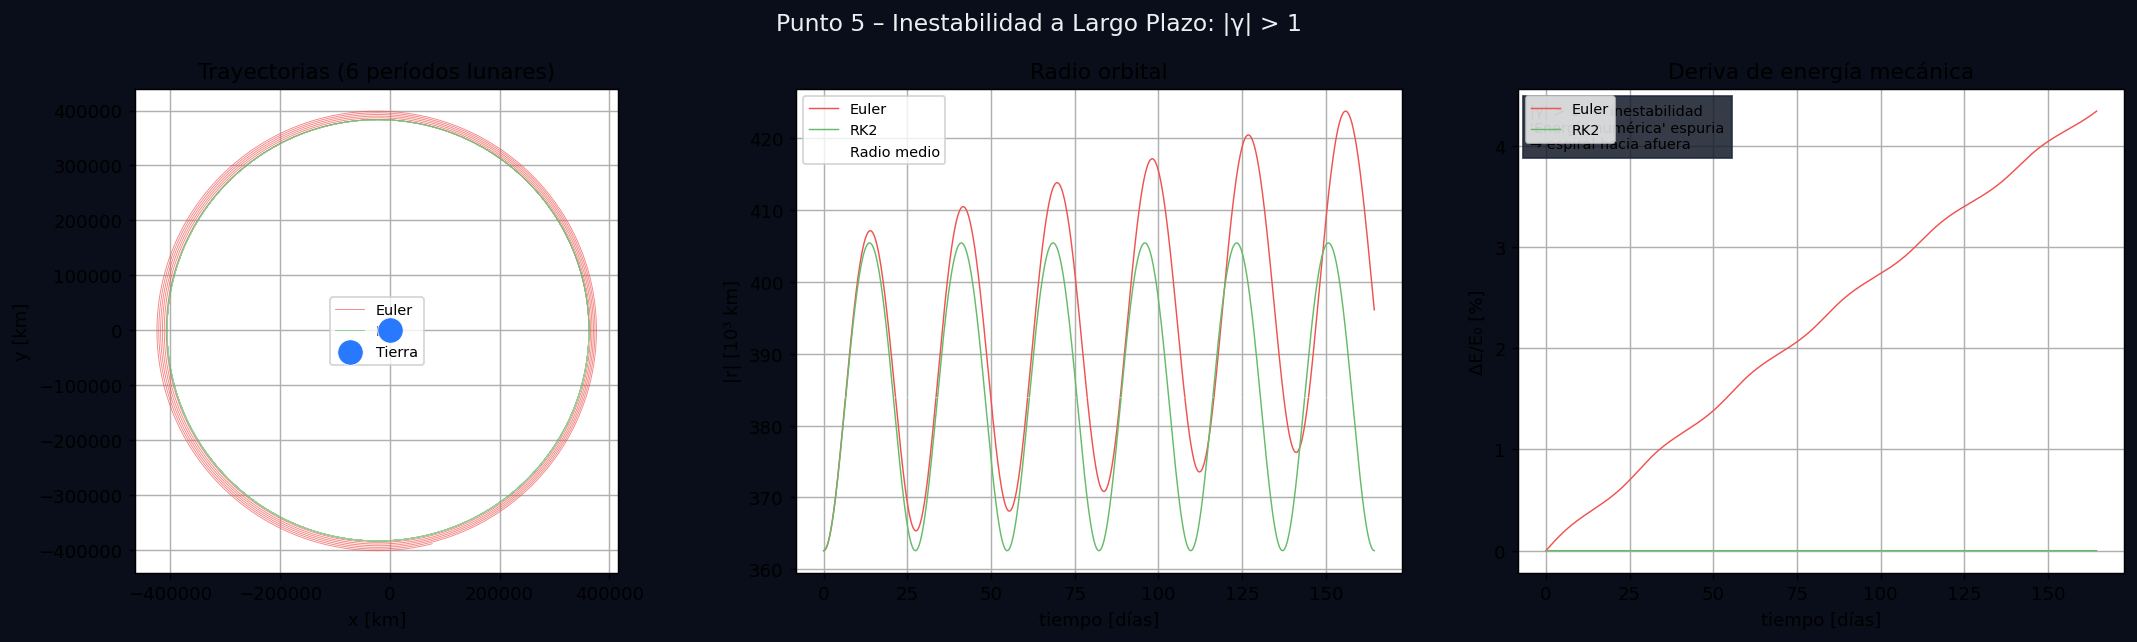
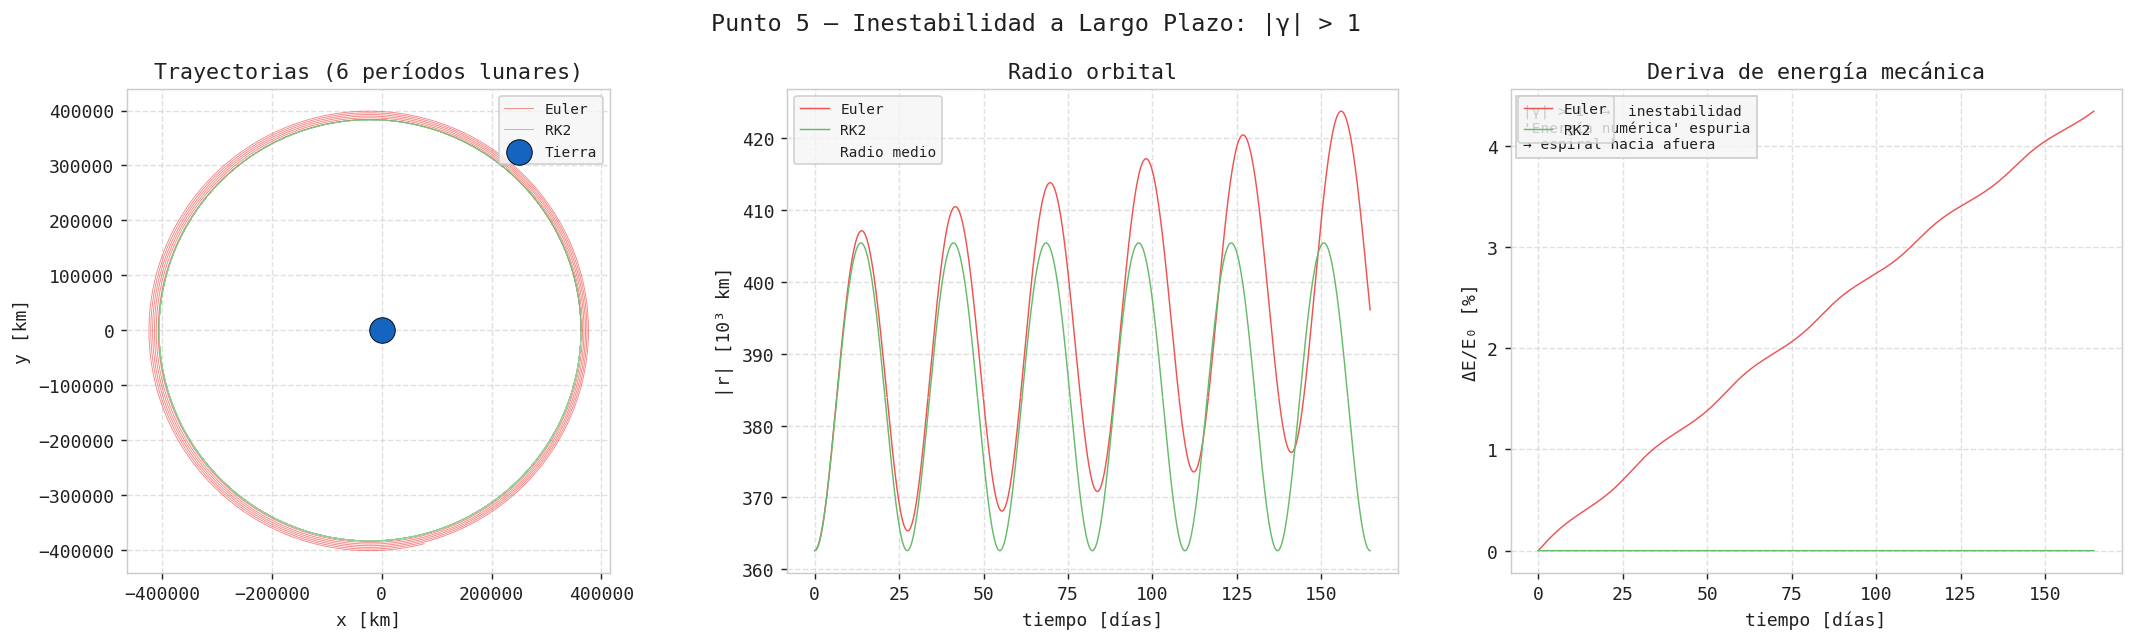
Graficos blancos arreglados

diff --git a/graph/graph.py b/graph/graph.py
@@ -1,19 +1,31 @@
 import matplotlib.pyplot as plt
 import numpy as np
 
-BG = "#0a0e1a"
-# GC = "#1e2a40"
-EC = "#2979ff"
-MC = "#b0bec5"
-TC = "#eceff1"
+BG  = "#ffffff"
+GC  = "#cccccc"
+EC  = "#1565c0"
+MC  = "#546e7a"
+TC  = "#212121"
 
+def configurar_estilo():
+    plt.rcParams.update({
+        "figure.facecolor": BG, "axes.facecolor":   BG,
+        "axes.edgecolor":   GC, "axes.labelcolor":  TC,
+        "xtick.color":      TC, "ytick.color":       TC,
+        "text.color":       TC, "grid.color":        GC,
+        "grid.linestyle":  "--", "grid.alpha":       0.6,
+        "legend.facecolor": "#f5f5f5", "legend.edgecolor": GC,
+        "font.family":      "monospace",
+    })
+ 
 def crear_figura(n_cols, n_rows=1, titulo="", ancho=16, alto=5):
     fig, axes = plt.subplots(n_rows, n_cols, figsize=(ancho, alto))
     if titulo:
         fig.suptitle(titulo, fontsize=13, color=TC)
     return fig, np.atleast_1d(axes).flatten()
  
-def configurar_ejes(ax, titulo="", xlabel="", ylabel="", fontsize_legend=8):
+def configurar_ejes(ax, titulo="", xlabel="", ylabel="", fontsize_legend=8,
+                    loc_leyenda="best"):
     if titulo:
         ax.set_title(titulo)
     if xlabel:
@@ -23,9 +35,11 @@ def configurar_ejes(ax, titulo="", xlabel="", ylabel="", fontsize_legend=8):
     ax.grid(True)
     handles, labels = ax.get_legend_handles_labels()
     if labels:
-        ax.legend(fontsize=fontsize_legend)
+        ax.legend(fontsize=fontsize_legend, loc=loc_leyenda)
  
-def graficar_trayectoria(ax, trayectorias, titulo="", mostrar_tierra=True, punto_luna=None, puntos_extra=None):
+def graficar_trayectoria(ax, trayectorias, titulo="", mostrar_tierra=True,
+                          punto_luna=None, puntos_extra=None,
+                          loc_leyenda="best"):
     for t in trayectorias:
         ax.plot(
             t["r"][:, 0], t["r"][:, 1],
@@ -39,11 +53,11 @@ def graficar_trayectoria(ax, trayectorias, titulo="", mostrar_tierra=True, punto
  
     if mostrar_tierra:
         ax.scatter([0], [0], s=200, color=EC, zorder=6, label="Tierra",
-                   edgecolors="white", linewidths=0.5)
+                   edgecolors="black", linewidths=0.5)
  
     if punto_luna is not None:
-        ax.scatter(*punto_luna, s=120, color=MC, zorder=6, label="Luna (t₀)",
-                   edgecolors="white", linewidths=0.5)
+        ax.scatter(*punto_luna, s=120, color=MC, zorder=6, label="Luna (t\u2080)",
+                   edgecolors="black", linewidths=0.5)
  
     if puntos_extra:
         for p in puntos_extra:
@@ -57,9 +71,11 @@ def graficar_trayectoria(ax, trayectorias, titulo="", mostrar_tierra=True, punto
             )
  
     ax.set_aspect("equal")
-    configurar_ejes(ax, titulo=titulo, xlabel="x [km]", ylabel="y [km]")
-
-def graficar_serie_temporal(ax, series, titulo="", xlabel="tiempo [días]", ylabel="", escala_log=False):
+    configurar_ejes(ax, titulo=titulo, xlabel="x [km]", ylabel="y [km]",
+                    loc_leyenda=loc_leyenda)
+ 
+def graficar_serie_temporal(ax, series, titulo="", xlabel="tiempo [días]",
+                             ylabel="", escala_log=False):
     plot_fn = ax.semilogy if escala_log else ax.plot
  
     for s in series:
@@ -83,16 +99,18 @@ def graficar_lineas_referencia(ax, lineas):
             alpha=lin.get("alpha", 1.0),
             label=lin.get("label", ""),
         )
-
+ 
 def caja_texto(ax, texto):
+    """Agrega un cuadro de anotación informativa en la esquina superior izquierda."""
     ax.text(
         0.02, 0.97, texto,
         transform=ax.transAxes, va="top", fontsize=8,
-        bbox=dict(facecolor="#111827", edgecolor=TC, alpha=0.85),
+        bbox=dict(facecolor="#f5f5f5", edgecolor=GC, alpha=0.9),
     )
  
 def guardar_figura(fig, nombre_archivo, out_dir):
+    """Guarda la figura en el directorio de salida, la cierra y confirma por consola."""
     ruta = out_dir / nombre_archivo
     fig.savefig(ruta, dpi=130, bbox_inches="tight", facecolor=BG)
     plt.close(fig)
-    print(f"Grafico guardado: {ruta}")
+    print(f"  Guardado: {ruta}")

diff --git a/calculos/calculos.py b/calculos/calculos.py
@@ -25,6 +25,7 @@ EUC = "#ef5350"
 RKC = "#66bb6a"
 NYC = "#29b6f6"
 TC = "#eceff1"
+AM = "#ffeb3b"
 
 def calculo_orbita_lunar():
     N = 40_000
@@ -49,11 +50,12 @@ def calculo_orbita_lunar():
         trayectorias=[{"r": rl, "color": MC, "lw": 1.2, "label": "Órbita Lunar"}],
         titulo="Trayectoria (1 período)",
         puntos_extra=[
-            {"xy": (rl[pi_, 0], rl[pi_, 1]), "color": "#ff1744", "s": 60,
+            {"xy": (rl[pi_, 0], rl[pi_, 1]), "color": EUC, "s": 60,
              "label": f"Perigeo {dl.min():.0f} km"},
-            {"xy": (rl[ai_, 0], rl[ai_, 1]), "color": "#69f0ae", "s": 60,
+            {"xy": (rl[ai_, 0], rl[ai_, 1]), "color": NYC, "s": 60,
              "label": f"Apogeo {dl.max():.0f} km"},
         ],
+        loc_leyenda="upper right"
     )
  
     graficar_serie_temporal(
@@ -63,8 +65,8 @@ def calculo_orbita_lunar():
         ylabel="distancia [km]",
     )
     graficar_lineas_referencia(axes[1], [
-        {"y": R_PERIGEO, "color": "#ff1744", "label": f"{R_PERIGEO:.0f} km"},
-        {"y": R_APOGEO,  "color": "#69f0ae", "label": f"{R_APOGEO:.0f} km"},
+        {"y": R_PERIGEO, "color": EUC, "label": f"{R_PERIGEO:.0f} km"},
+        {"y": R_APOGEO,  "color": NYC, "label": f"{R_APOGEO:.0f} km"},
     ])
     axes[1].legend(fontsize=8)
  
@@ -146,9 +148,9 @@ def calculo_posicion_velocidad_orion(r0_orion, v0_orion):
         titulo=f"Free-Return Trajectory  (Δθ = {mejor_ang:.2f}°)",
         punto_luna=r_luna_fix,
         puntos_extra=[
-            {"xy": r0_orion,    "color": "#ffeb3b", "marker": "*", "s": 90,
+            {"xy": r0_orion,    "color": AM, "marker": "*", "s": 90,
              "label": "Orion t₀ (CSV)"},
-            {"xy": r_orion[-1], "color": "#e91e63", "marker": "v", "s": 90,
+            {"xy": r_orion[-1], "color": EUC, "marker": "v", "s": 90,
              "label": "Orion t_final"},
         ],
     )
@@ -165,7 +167,7 @@ def calculo_posicion_velocidad_orion(r0_orion, v0_orion):
         ylabel="distancia [10³ km]",
     )
     graficar_lineas_referencia(axes[1], [
-        {"y": 1.737, "color": "#ff1744", "ls": ":", "label": "R_Luna = 1 737 km"},
+        {"y": 1.737, "color": EUC, "ls": ":", "label": "R_Luna = 1 737 km"},
     ])
     axes[1].legend(fontsize=8)
  
@@ -254,6 +256,7 @@ def simulacion_orbita_lunar():
             {"r": r_rk5, "color": RKC, "lw": 0.5, "alpha": 0.7, "label": "RK2"},
         ],
         titulo="Trayectorias (6 períodos lunares)",
+        loc_leyenda="upper right"
     )
  
     graficar_serie_temporal(
@@ -318,6 +321,7 @@ def metodo_alternativo_nynstrom(r_eu5, v_eu5, r_rk5, v_rk5, E0, t5, N5, h5):
              "label": "Euler (espiral)"},
         ],
         titulo="Trayectorias (6 períodos)",
+        loc_leyenda="upper right"
     )
  
     graficar_serie_temporal(

diff --git a/main.py b/main.py
@@ -1,5 +1,6 @@
 import numpy as np
 from pathlib import Path
+from graph.graph import configurar_estilo
 from utils.utils import leer_condiciones_iniciales, energia_mecanica, momento_angular, imprimir_resultados
 from calculos.calculos import calculo_orbita_lunar, calculo_posicion_velocidad_orion, calculo_euler_rk2, simulacion_orbita_lunar, metodo_alternativo_nynstrom
 
@@ -22,7 +23,7 @@ CSV_PATH = Path("./csv/Artemis_II_Data.csv")
 
 def main():
     print("TRABAJO PRACTICO - Trayectoria de la Cápsula Orion de la Misión Artemis II")
- 
+    configurar_estilo()
     r0_orion, v0_orion = leer_condiciones_iniciales(CSV_PATH)
  
     imprimir_resultados("CSV", "Condiciones iniciales (3 abril, 04:00-06:00 h)", [
